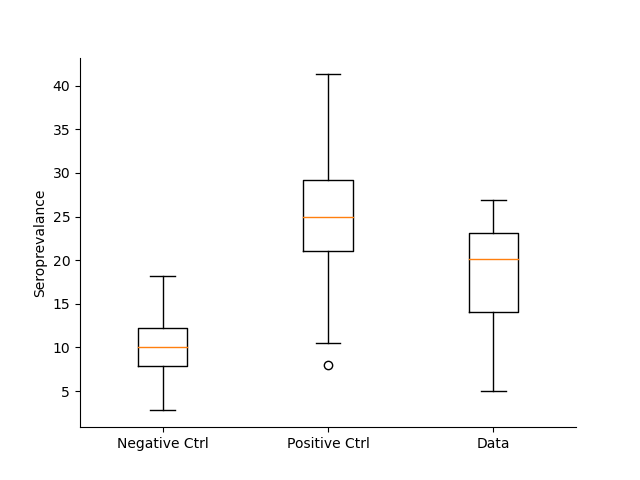
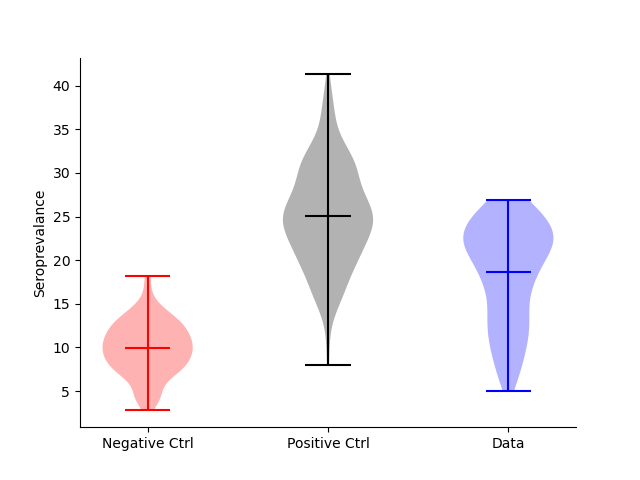
update Q3fig to violins

diff --git a/HW4/Q3.py b/HW4/Q3.py
@@ -16,7 +16,13 @@ def load_data(files_array, column_names_array, filename):
 
 def plot_data(data, column_names_array, fig_title):
     fig, ax = plt.subplots()
-    ax.boxplot([data[column_names_array[0]],data[column_names_array[1]],data[column_names_array[2]]])
+    violins = ax.violinplot(data,showmeans=True)
+    colors = ['red','black','blue']
+    for i, violin in enumerate(violins['bodies']):
+        violin.set_facecolor(colors[i])
+    for partname in ('cbars', 'cmins', 'cmaxes', 'cmeans'):
+        vp = violins[partname]
+        vp.set_edgecolor(colors)
     ax.set_xticks([1,2,3])
     ax.set_xticklabels(column_names_array)
     ax.set_ylabel('Seroprevalance')
